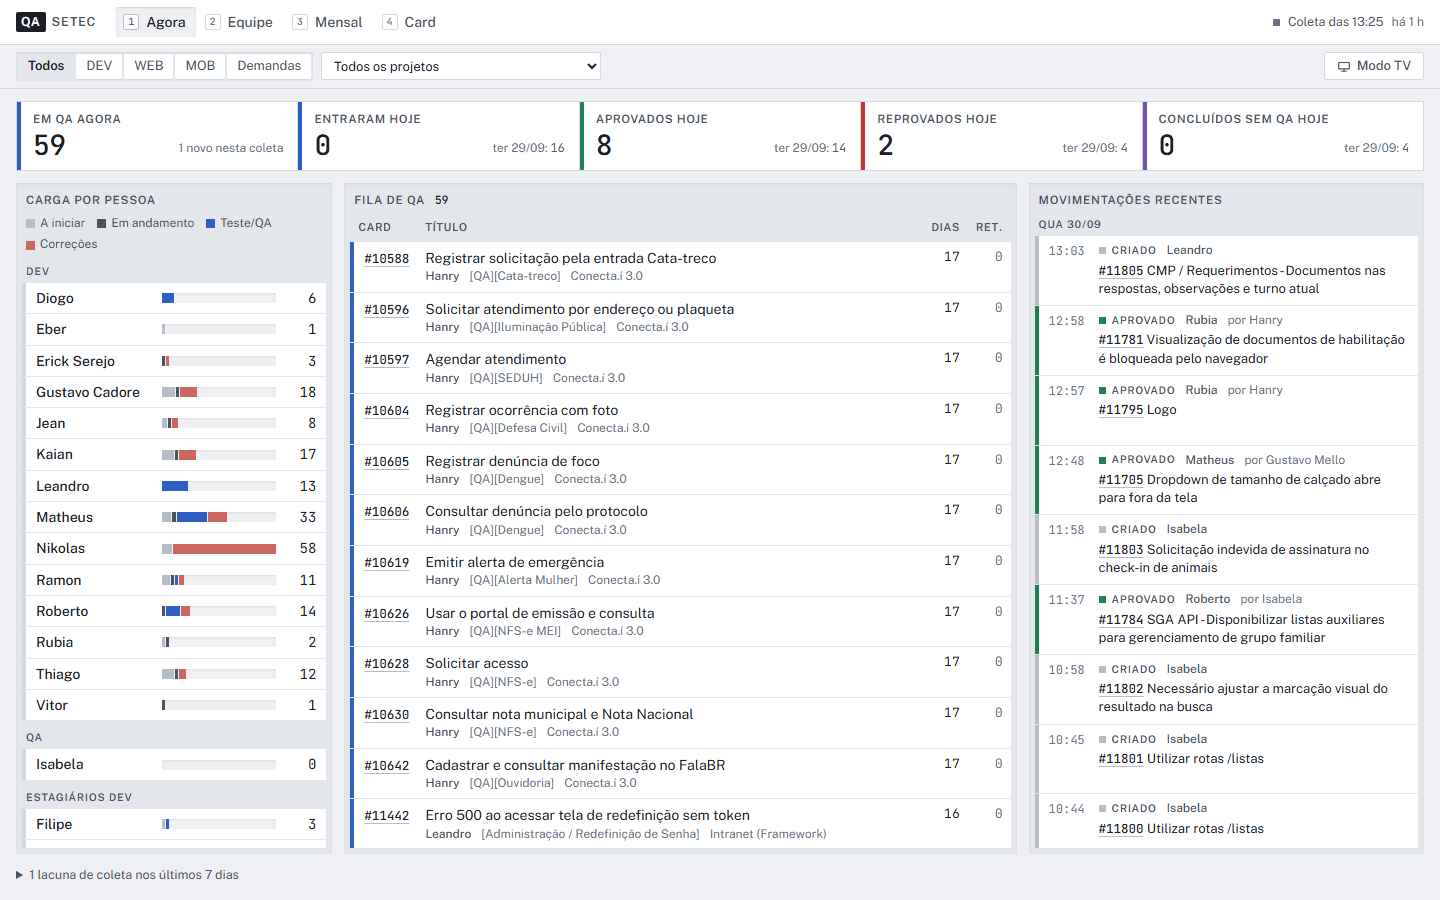
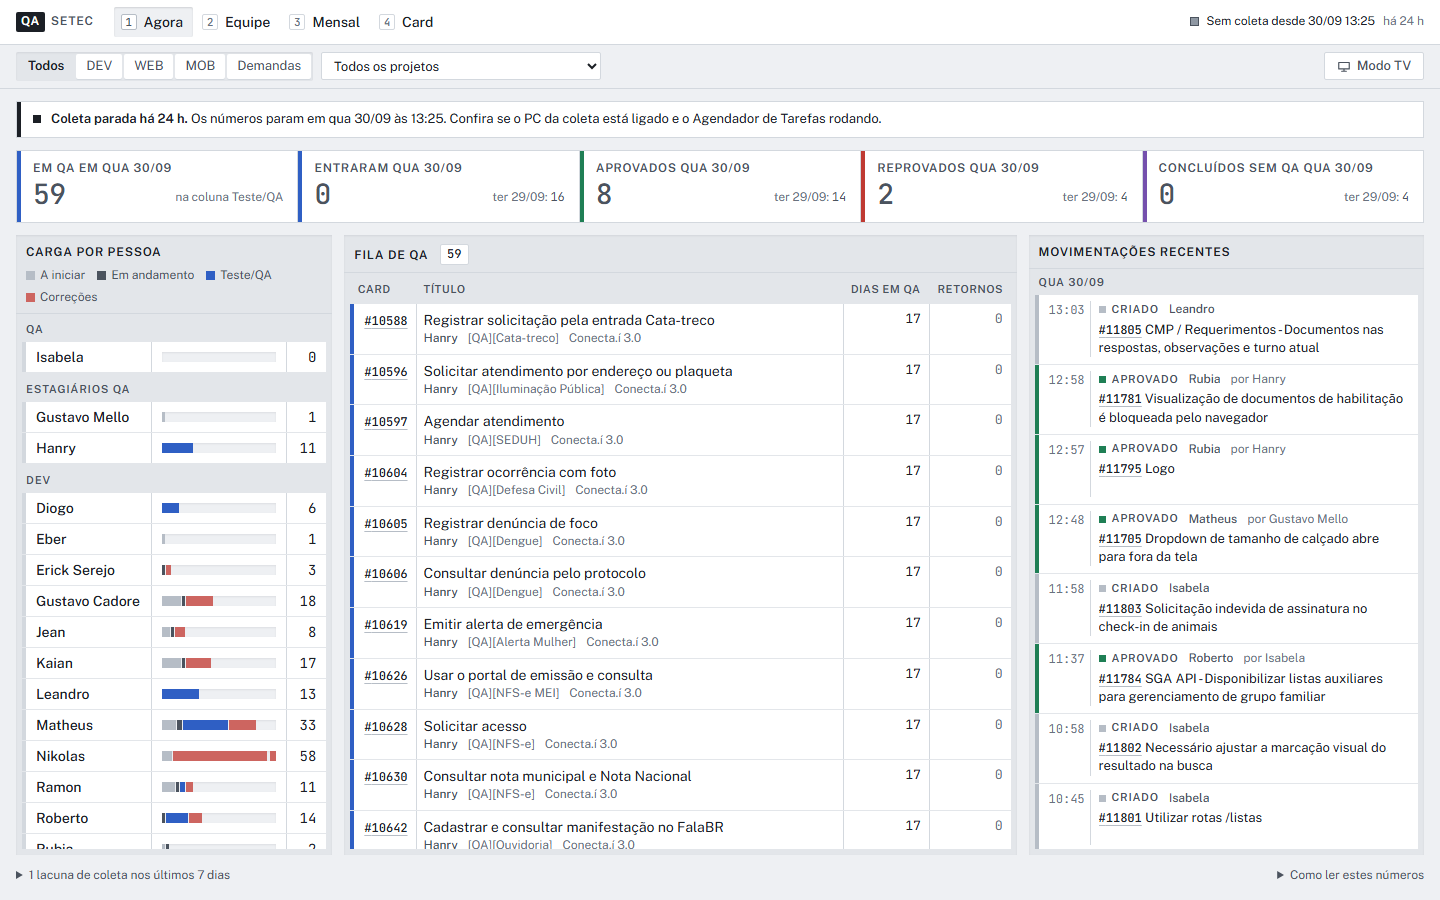
Att: Atualização no design (v0.1.0)

diff --git a/src/telas/Mensal.tsx b/src/telas/Mensal.tsx
@@ -1,7 +1,7 @@
 import { useMemo } from "react";
 import type { Dashboard, Grupo } from "../data/contrato";
 import { mesCurto, numero, porcento } from "../data/formato";
-import { resumoPorMes, type Filtro } from "../data/seletores";
+import { mesLocal, resumoPorMes, type Filtro } from "../data/seletores";
 import { ROTULO_GRUPO, composicaoPorMes, taxaCardsPorMes } from "../data/pessoas";
 import { DEFINICAO } from "../data/glossario";
 import { Glossario } from "../componentes/Glossario";
@@ -30,7 +30,14 @@ export function Mensal({ dados, filtro }: { dados: Dashboard; filtro: Filtro }) 
   // % de cards reprovados: a mesma conta da Equipe e da Pessoa (por card, não por evento).
   const taxas = taxaCardsPorMes(dados, filtro);
   const taxaDe = (mes: string) => taxas.get(mes)?.taxa ?? null;
-  const meses = linhas.map((l) => mesCurto(l.ano_mes));
+  // O mês corrente leva "*": está em andamento e não se compara de igual para igual.
+  const mesAtual = mesLocal(new Date());
+  const rotuloMes = (m: string) => (m === mesAtual ? `${mesCurto(m)} *` : mesCurto(m));
+  const meses = linhas.map((l) => rotuloMes(l.ano_mes));
+  // Linha com 2 pontos não mostra tendência: até 4 meses, % e tempo ficam como
+  // mini-barras no Resumo; os gráficos de linha entram a partir do 4º mês.
+  const comTendencia = linhas.length >= 4;
+  const maxTempo = Math.max(1, ...linhas.map((l) => l.tempo_medio_qa_h ?? 0));
   const chave =
     linhas.map((l) => `${l.ano_mes}${l.entradas}${l.aprovados}${l.reprovados}${l.tempo_medio_qa_h}${taxaDe(l.ano_mes)}`).join() + tema;
 
@@ -93,7 +100,7 @@ export function Mensal({ dados, filtro }: { dados: Dashboard; filtro: Filtro }) 
     const presentes = GRUPOS_COMPOSICAO.filter((g) => composicao.some((c) => c.entregues[g] > 0));
     return {
       ...b,
-      xAxis: { ...(b.xAxis as object), data: composicao.map((c) => mesCurto(c.ano_mes)) },
+      xAxis: { ...(b.xAxis as object), data: composicao.map((c) => rotuloMes(c.ano_mes)) },
       series: presentes.map((g) => ({
         name: ROTULO_GRUPO[g],
         type: "bar" as const, barMaxWidth: 28,
@@ -112,6 +119,7 @@ export function Mensal({ dados, filtro }: { dados: Dashboard; filtro: Filtro }) 
       <section className="bloco mensal__largo" aria-labelledby="t-tabela-mes">
         <header className="bloco__cabeca">
           <h2 id="t-tabela-mes" className="bloco__titulo">Resumo</h2>
+          {!comTendencia && <p className="nota">Com menos de 4 meses, % e tempo médio aparecem como barras aqui; os gráficos de tendência entram a partir do 4º mês.</p>}
           <Glossario />
         </header>
         <div className="rolavel-x">
@@ -131,19 +139,27 @@ export function Mensal({ dados, filtro }: { dados: Dashboard; filtro: Filtro }) 
             <tbody>
               {linhas.slice().reverse().map((l) => (
                 <tr key={l.ano_mes}>
-                  <th scope="row">{mesCurto(l.ano_mes)}</th>
+                  <th scope="row">{rotuloMes(l.ano_mes)}</th>
                   <td className="num">{numero(l.entradas)}</td>
                   <td className="num">{numero(l.aprovados)}</td>
                   <td className="num">{numero(l.reprovados)}</td>
                   <td className="num">
                     {porcento(taxaDe(l.ano_mes))}
+                    {!comTendencia && taxaDe(l.ano_mes) !== null && (
+                      <span className="minibarra" aria-hidden="true"><span style={{ width: `${taxaDe(l.ano_mes)}%` }} /></span>
+                    )}
                     {taxas.get(l.ano_mes) && (
                       <span className="meta celula-denominador">
                         {taxas.get(l.ano_mes)!.cardsReprovados} de {taxas.get(l.ano_mes)!.cardsJulgados}
                       </span>
                     )}
                   </td>
-                  <td className="num">{l.tempo_medio_qa_h === null ? "—" : `${l.tempo_medio_qa_h.toLocaleString("pt-BR")} h`}</td>
+                  <td className="num">
+                    {l.tempo_medio_qa_h === null ? "—" : `${l.tempo_medio_qa_h.toLocaleString("pt-BR")} h`}
+                    {!comTendencia && l.tempo_medio_qa_h !== null && (
+                      <span className="minibarra" aria-hidden="true"><span style={{ width: `${(100 * l.tempo_medio_qa_h) / maxTempo}%` }} /></span>
+                    )}
+                  </td>
                   <td className="num">{numero(composicao.find((c) => c.ano_mes === l.ano_mes)?.criadosGestao ?? 0)}</td>
                   <td><span className="meta">{MEDICAO[l.completude] ?? l.completude}</span></td>
                 </tr>
@@ -156,11 +172,13 @@ export function Mensal({ dados, filtro }: { dados: Dashboard; filtro: Filtro }) 
       <section className="bloco mensal__largo" aria-labelledby="t-volume">
         <header className="bloco__cabeca">
           <h2 id="t-volume" className="bloco__titulo">Volume de QA por mês</h2>
-          <p className="nota">Desde {desde}: antes disso só há amostra incompleta.</p>
+          <p className="nota">Desde {desde}: antes disso só há amostra incompleta. * mês em andamento.</p>
         </header>
         <Grafico opcoes={volume} altura={220} rotulo={`Entradas, aprovados e reprovados por mês desde ${desde}`} />
       </section>
 
+      {comTendencia && (
+        <>
       <section className="bloco" aria-labelledby="t-reprov">
         <header className="bloco__cabeca">
           <h2 id="t-reprov" className="bloco__titulo">% de cards reprovados</h2>
@@ -176,6 +194,8 @@ export function Mensal({ dados, filtro }: { dados: Dashboard; filtro: Filtro }) 
         </header>
         <Grafico opcoes={tempo} altura={200} rotulo="Tempo médio em QA por mês, em horas" />
       </section>
+        </>
+      )}
 
       <section className="bloco mensal__largo" aria-labelledby="t-grupos">
         <header className="bloco__cabeca">

diff --git a/src/telas/Agora.tsx b/src/telas/Agora.tsx
@@ -1,3 +1,4 @@
+import { useEffect, useState } from "react";
 import type { Dashboard } from "../data/contrato";
 import { NOME_EVENTO, diaCurto, hora, separarEtiquetas } from "../data/formato";
 import { diaDeReferencia, diaLocal, estadoAtualizacao, kpisHoje, indiceTitulos, passaNoFiltro, inicioDaUltimaColeta, type Filtro } from "../data/seletores";
@@ -61,7 +62,7 @@ export function Agora({ dados, filtro, agora, hrefCard, hrefPessoa, soForaDoPain
           "o que está parado" é a pergunta nº 1. No desktop a grade põe a carga à esquerda. */}
       <Fila dados={dados} filtro={filtro} hrefCard={hrefCard} soForaDoPainel={soForaDoPainel} alternarForaDoPainel={alternarForaDoPainel} />
       <CargaEquipe dados={dados} filtro={filtro} hrefPessoa={hrefPessoa} />
-      <Feed dados={dados} filtro={filtro} hrefCard={hrefCard} />
+      <Feed dados={dados} filtro={filtro} hrefCard={hrefCard} velho={velho} />
       <div className="agora__rodape">
         <Lacunas dados={dados} />
         <Glossario />
@@ -120,10 +121,23 @@ const TOM_EVENTO: Record<string, Tom> = {
   criada: "neutro",
 };
 
-function Feed({ dados, filtro, hrefCard }: { dados: Dashboard; filtro: Filtro; hrefCard: (id: number) => string }) {
+/**
+ * Coleta cuja chegada já foi animada nesta aba. Fica fora do componente de
+ * propósito: voltar para a tela Agora não deve repetir o gesto, só uma coleta
+ * nova deve.
+ */
+let coletaAnimada: number | null = null;
+
+function Feed({ dados, filtro, hrefCard, velho }: { dados: Dashboard; filtro: Filtro; hrefCard: (id: number) => string; velho: boolean }) {
   const eventos = feedRecente(dados, filtro, 40);
-  // O que chegou nesta coleta entra no quadro com o gesto de inserir a faixa.
-  const desde = inicioDaUltimaColeta(dados);
+  // O que chegou na última coleta ganha a marca "novo"; na primeira vez que a
+  // coleta aparece, a faixa entra deslizando no trilho. Dado velho não é novo.
+  const desde = velho ? null : inicioDaUltimaColeta(dados);
+  const momentoColeta = dados.coleta.momento;
+  const [animar] = useState(() => momentoColeta !== null && momentoColeta !== coletaAnimada);
+  useEffect(() => {
+    coletaAnimada = momentoColeta;
+  }, [momentoColeta]);
   const titulos = indiceTitulos(dados);
   const pessoas = indicePessoas(dados);
   // O evento traz o nome completo do Kanboard; a tela usa o nome curto da equipe.
@@ -145,13 +159,15 @@ function Feed({ dados, filtro, hrefCard }: { dados: Dashboard; filtro: Filtro; h
             diaAnterior = e.dia;
             const titulo = separarEtiquetas(titulos.get(e.task_id) ?? e.titulo ?? "").resto;
             const dono = e.evento === "criada" ? nome(e.creator_nome) : nome(e.owner_nome);
+            const novo = desde !== null && e.momento > desde;
             return (
               <li key={`${e.task_id}-${e.momento}-${i}`}>
                 {cabecalho && <p className="feed__dia">{cabecalho}</p>}
-                <div className={`feed__item faixa--${TOM_EVENTO[e.evento] ?? "neutro"}${desde !== null && e.momento > desde ? " faixa--nova" : ""}`}>
+                <div className={`feed__item faixa--${TOM_EVENTO[e.evento] ?? "neutro"}${novo && animar ? " faixa--nova" : ""}`}>
                   <span className="feed__hora num">{hora(e.momento)}</span>
                   <span className="feed__cabeca">
                     <span className={`etiqueta etiqueta--${TOM_EVENTO[e.evento] ?? "neutro"}`}>{NOME_EVENTO[e.evento]}</span>
+                    {novo && <span className="marca-novo" title="Chegou na última coleta">novo</span>}
                     <span className="meta">
                       {dono && <span className="meta__pessoa">{dono}</span>}
                       {e.movido_por && nome(e.movido_por) !== dono && <span>por {nome(e.movido_por)}</span>}

diff --git a/src/estilo/app.css b/src/estilo/app.css
@@ -1124,7 +1124,8 @@ details.bloco > summary {
 
 .linha-tempo__item {
   display: grid;
-  grid-template-columns: 96px 150px minmax(0, 1fr) auto;
+  /* Campo de tempo com largura fixa: os filetes alinham de faixa em faixa. */
+  grid-template-columns: 96px 150px minmax(0, 1fr) 200px;
   gap: 10px;
   align-items: baseline;
   padding: 7px 10px 7px 14px;
@@ -1485,4 +1486,112 @@ a.link-pessoa:hover {
 
 .aviso p {
   max-width: 110ch;
+}
+
+/* ---------- Pontos do revisor: a gramática da faixa por inteiro ---------- */
+
+/*
+ * Campos em caixas. Uma faixa de controle de voo é uma fileira de campos de
+ * largura fixa separados por filete de 1px: aqui, #card | título | dias |
+ * retornos na fila; hora | evento na movimentação; nome | barra | total na
+ * carga; quando | evento | de-para | tempo na linha do tempo.
+ */
+.fila .tabela tbody td + td {
+  box-shadow: inset 1px 0 0 var(--filete);
+}
+
+.feed__hora {
+  align-self: stretch;
+  box-shadow: inset -1px 0 0 var(--filete);
+  padding-right: 8px;
+}
+
+.carga-linha {
+  padding-top: 0;
+  padding-bottom: 0;
+  min-height: 30px;
+}
+
+.carga-linha > .link-pessoa,
+.carga-linha__total {
+  align-self: stretch;
+  display: flex;
+  align-items: center;
+}
+
+.carga-linha > .link-pessoa {
+  box-shadow: inset -1px 0 0 var(--filete);
+  padding-right: 10px;
+}
+
+.carga-linha__total {
+  justify-content: flex-end;
+  box-shadow: inset 1px 0 0 var(--filete);
+}
+
+.linha-tempo__item {
+  padding-top: 0;
+  padding-bottom: 0;
+  min-height: 34px;
+  align-items: stretch;
+}
+
+.linha-tempo__item > * {
+  display: flex;
+  align-items: center;
+}
+
+.linha-tempo__item > * + * {
+  box-shadow: inset 1px 0 0 var(--filete);
+  padding-left: 10px;
+}
+
+.linha-tempo__estadia {
+  justify-content: flex-end;
+}
+
+/*
+ * Placa de cabeçalho da baia: o título em caixa-alta e a contagem num campo
+ * próprio, separados do conteúdo por um filete, como a etiqueta de uma
+ * baia no quadro.
+ */
+.bloco__cabeca {
+  border-bottom: 1px solid var(--filete);
+  margin-bottom: 6px;
+  padding-bottom: 7px;
+}
+
+.contagem {
+  display: inline-block;
+  min-width: 2.4em;
+  margin-left: 8px;
+  padding: 0 6px;
+  border: 1px solid var(--filete);
+  border-radius: 2px;
+  background: var(--faixa);
+  font-size: var(--t-meta);
+  line-height: 1.6;
+  text-align: center;
+  vertical-align: 1px;
+}
+
+/* Mini-barra na célula do Resumo: substitui um gráfico de linha de dois pontos. */
+.minibarra {
+  display: block;
+  height: 4px;
+  margin-top: 4px;
+  background: var(--trilho);
+}
+
+.minibarra > span {
+  display: block;
+  height: 100%;
+  background: var(--n6);
+}
+
+@media (max-width: 700px) {
+  .linha-tempo__item > * + * {
+    box-shadow: none;
+    padding-left: 0;
+  }
 }

diff --git a/DESIGN.md b/DESIGN.md
@@ -261,7 +261,7 @@ Controles quietos, de borda fina, que afundam quando ligados.
 - **State:** pressionado afunda no trilho como o botão.
 
 ### Cards / Containers
-- **Baia:** fundo --baia, cantos retos, sombra de baia, cabeça com título em Label e contagem em mono tinta 1; rola por dentro.
+- **Baia:** fundo --baia, cantos retos, sombra de baia; rola por dentro. A cabeça é uma placa: título em Label tinta 1, a contagem num campo próprio (caixa de filete, fundo de faixa, mono 12px, 2px de canto) e um filete de 1px separando a placa do conteúdo.
 - **Faixa:** fundo --faixa, cantos retos, porta-faixa de 4px à esquerda, padding 6–7px por 10px com 14px à esquerda, hover em faixa realce. Título e meta numa linha cada, cortados com reticências; o texto completo fica no title.
 - **Ficha** (detalhe do card): grade auto-fit de campos de 140px sobre fundo de faixa, separados por filetes de 1px, rótulo em Label 11px e valor numérico em mono 16px.
 
@@ -279,16 +279,16 @@ Controles quietos, de borda fina, que afundam quando ligados.
 Faixa única de cinco contadores em grade auto-fit (mín. 160px), separados por fio de 1px em filete. Cada contador tem porta-faixa na cor do que o número é (não de se é bom ou ruim), rótulo em Label, valor em Numeral e comparação à direita em 12px tinta 3 com o valor anterior em mono tinta 2.
 
 ### Tabela como pilha de faixas
-Linhas separadas por 1px (border-spacing), cada linha é uma faixa com porta-faixa na primeira célula, hover em faixa realce. Cabeçalho fixo no fundo da baia, em Label 11px sans. Colunas de estado levam o quadradinho de 7px da cor no cabeçalho; os números da coluna ficam em tinta. Zeros e pessoas inativas em tinta 3. Rodapé de total em 600 sobre fundo transparente.
+Linhas separadas por 1px (border-spacing), cada linha é uma faixa com porta-faixa na primeira célula, hover em faixa realce. Na fila de QA, os campos da faixa (#card · título · dias · retornos) ficam em caixas separadas por filete vertical de 1px, como a faixa de controle de voo. Na Equipe, sob cada número, a diferença para o período anterior em 11px tinta 3, sem cor; zero contra zero fica em branco. Cabeçalho fixo no fundo da baia, em Label 11px sans. Colunas de estado levam o quadradinho de 7px da cor no cabeçalho; os números da coluna ficam em tinta. Zeros e pessoas inativas em tinta 3. Rodapé de total em 600 sobre fundo transparente.
 
 ### Barra de carga
-Trilho rebaixado de 10px com segmentos de no mínimo 3px separados por 1px: A iniciar, Em andamento (neutros), Teste/QA (Azul Entrada), Correções (Vermelho Correção). Largura proporcional ao maior total; legenda escrita acima. Linha de carga: nome (116px) · barra · total em mono.
+Trilho rebaixado de 10px com segmentos de no mínimo 3px separados por 1px: A iniciar, Em andamento (neutros), Teste/QA (Azul Entrada), Correções (Vermelho Correção). Largura proporcional ao teto da escala (o maior total, ou 1,2× o segundo maior quando o maior passa de 1,5× o segundo); a barra que passa do teto enche e ganha um corte de 3px perto do fim, com o número inteiro ao lado. Legenda escrita acima. Linha de carga em campos com filete: nome · barra · total em mono. QA vem primeiro na lista.
 
 ### Feed de movimentações e linha do tempo
-Faixas agrupadas por dia (Label-sm), com horário em mono tinta 3 à esquerda, rótulo do evento com marcador quadrado, #card e título, e "pessoa · por quem moveu" em meta. A faixa que chegou na última coleta entra uma vez deslizando 10px da esquerda a partir de faixa realce (560ms, cubic-bezier(0.16, 1, 0.3, 1)); com movimento reduzido, nada anima.
+Faixas agrupadas por dia (Label-sm), com horário em mono tinta 3 à esquerda, rótulo do evento com marcador quadrado, #card e título, e "pessoa · por quem moveu" em meta. A faixa que chegou na última coleta leva a marca "novo" (quadrado Azul Entrada + texto) e, na primeira vez que aquela coleta aparece na aba, entra deslizando 10px da esquerda a partir de faixa realce (560ms, cubic-bezier(0.16, 1, 0.3, 1)); voltar à tela não repete o gesto, e dado de coleta parada não é "novo". Com movimento reduzido, nada anima. Na linha do tempo do Card, os campos (quando · evento · de→para · tempo na coluna) ficam em caixas de filete, e o tempo em Teste/QA vem em tinta 1.
 
 ### Gráficos
-ECharts em canvas, lendo as cores dos tokens em tempo de execução e redesenhando quando o tema do sistema muda. Sem animação, legenda de quadrados 10×10 no topo, eixos e grade em filete, rótulos de eixo em mono 11px tinta 3, tooltip de faixa com filete e 2px de canto, ponteiro de eixo em sombra leve. Barras com no máximo 28px. Desenhados sobre uma faixa larga dentro da baia.
+ECharts em canvas, lendo as cores dos tokens em tempo de execução e redesenhando quando o tema do sistema muda. Sem animação, legenda de quadrados 10×10 no topo, eixos e grade em filete, rótulos de eixo em mono 11px tinta 3, tooltip de faixa com filete e 2px de canto, ponteiro de eixo em sombra leve. Barras com no máximo 28px. Desenhados sobre uma faixa larga dentro da baia. Linha de tendência só com 4 meses ou mais; antes disso, % e tempo médio aparecem como mini-barras neutras (4px, n6 sobre o trilho) dentro do Resumo. O mês corrente leva "*" no eixo e na tabela.
 
 ## Do's and Don'ts
 
